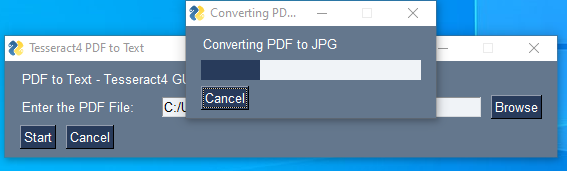
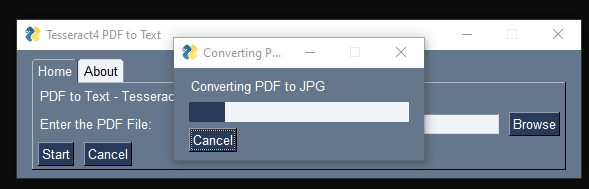
Added Tab

diff --git a/PySimpleGui/Tesseract_PySimpleGUI.py b/PySimpleGui/Tesseract_PySimpleGUI.py
@@ -59,9 +59,13 @@ def convertJpgToText(single_pdf):
 
     window2.close()
 
-layout = [[sg.Text('PDF to Text - Tesseract4 GUI')],
-          [sg.Text('Enter the PDF File:', size=(16, 1)), sg.Input(), sg.FileBrowse()],
-          [sg.Button("Start"), sg.Cancel()]]
+tab2_layout = [[sg.T('Creator: Parathan')],[sg.T('License: GNU General Public License v2.0')],[sg.T('email: parathanlive123@gmail.com')]]
+
+tab1_layout = [[sg.T('PDF to Text - Tesseract4 GUI')],
+               [sg.T('Enter the PDF File:', size=(16, 1)), sg.Input(), sg.FileBrowse()],
+               [sg.Button("Start"), sg.Cancel()]]
+
+layout = [[sg.TabGroup([[sg.Tab('Home', tab1_layout), sg.Tab('About', tab2_layout)]])]]
 
 #[sg.Text('Enter the ISO 639-3 code of the language you want: '),sg.InputText()],
 
